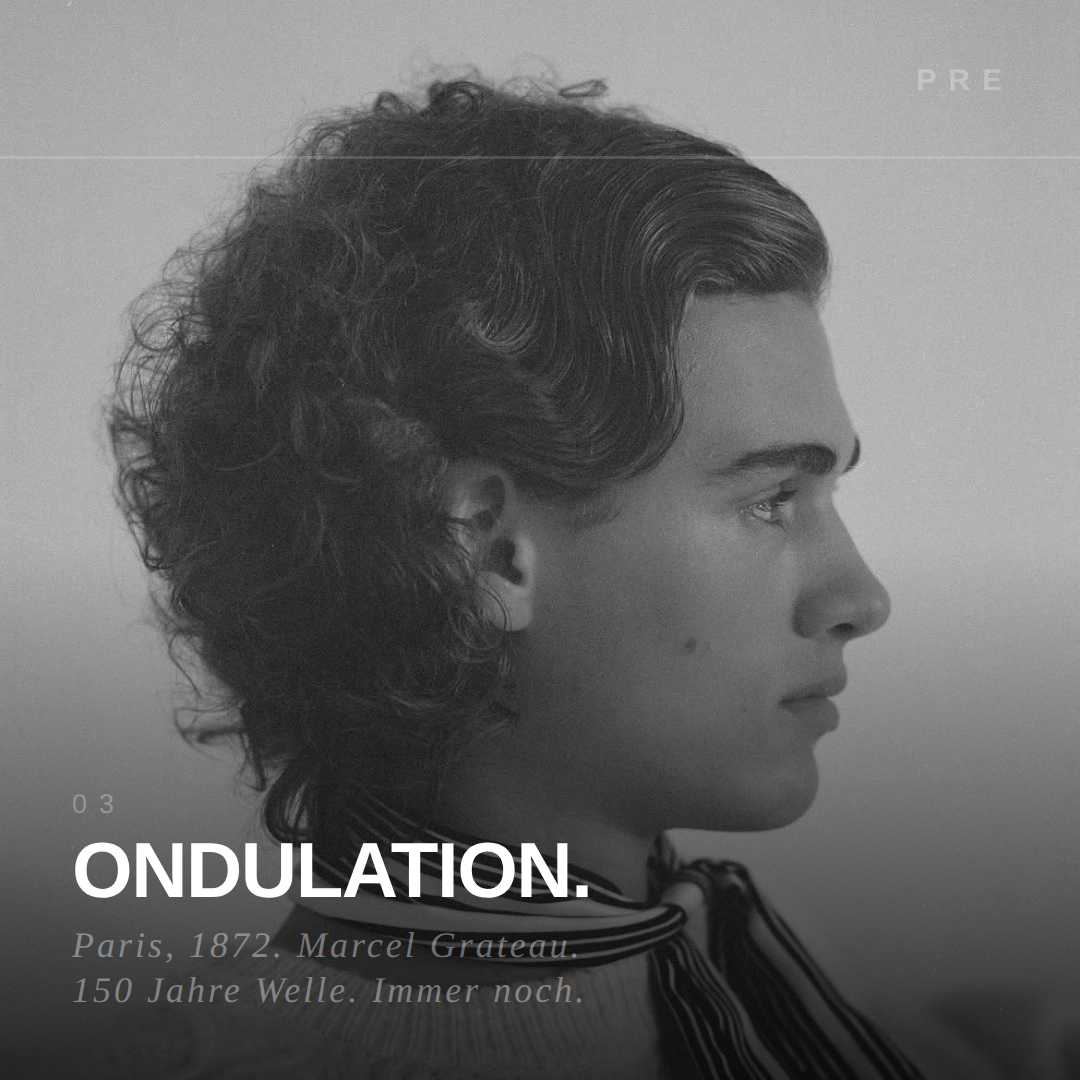
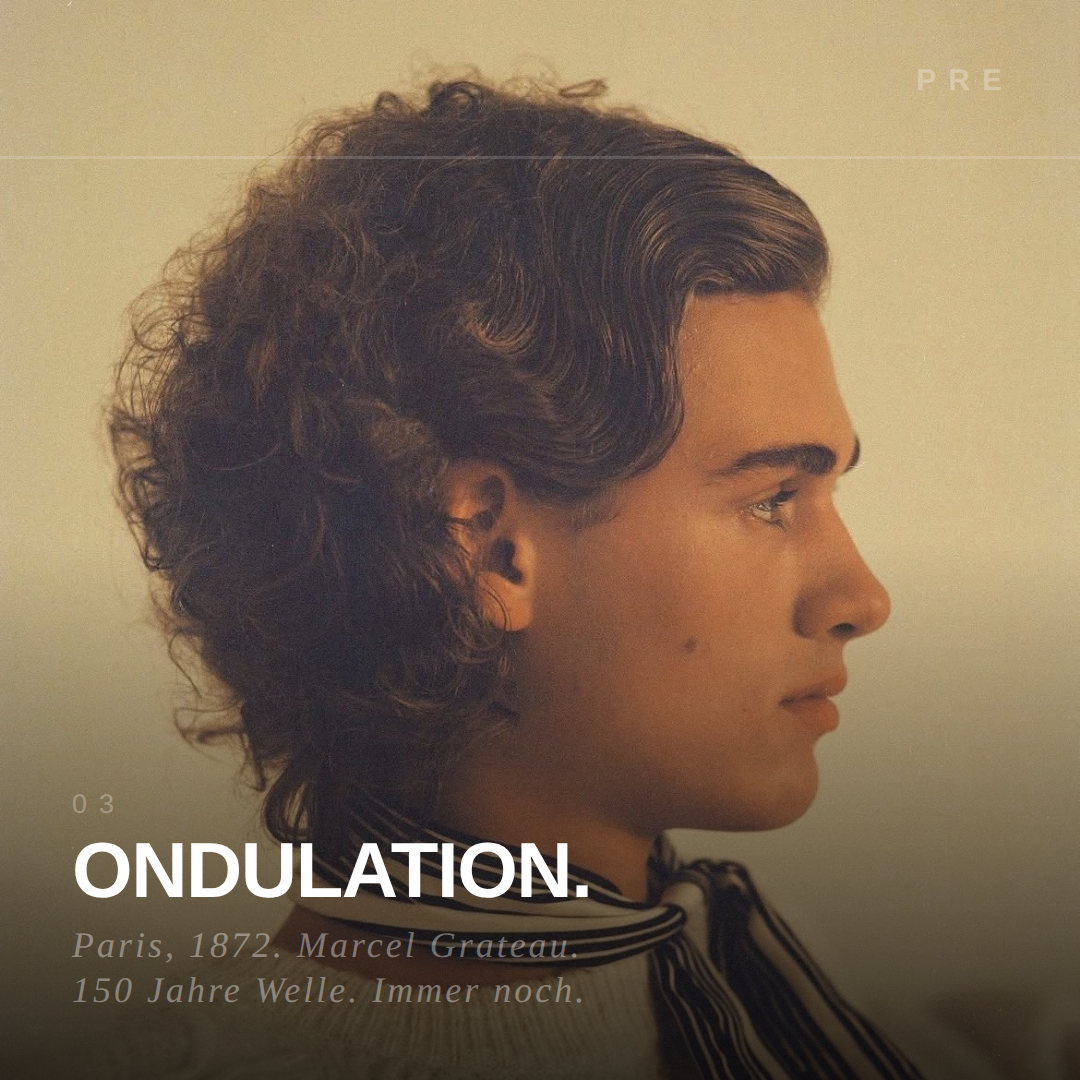
Add color moments to MORPHOLOGIE carousel
Slides 4+5 (Ondulation + Undercut) now in color.
Rhythm: B&W → B&W → warm vintage gold → contemporary olive → B&W → text.

https://claude.ai/code/session_01BaC8m9wAmbtKccXQSCmnYc

diff --git a/carousel-morphologie.html b/carousel-morphologie.html
@@ -99,11 +99,21 @@
     .s3 { background: #080808; }
     .s3 .photo { background-image: url('feed-shag-mullet.jpg'); background-position: center 10%; }
 
-    .s4 { background: #080808; }
-    .s4 .photo { background-image: url('feed-vintage-curls.jpg'); background-position: 55% 18%; }
+    /* S4 Ondulation — IN FARBE: warm vintage, Paris 1872 */
+    .s4 { background: #1a140a; }
+    .s4 .photo {
+      background-image: url('feed-vintage-curls.jpg');
+      background-position: 55% 18%;
+      filter: contrast(1.08) brightness(0.92) saturate(1.1);
+    }
 
-    .s5 { background: #080808; }
-    .s5 .photo { background-image: url('carousel-undercut.jpg'); background-position: center 12%; }
+    /* S5 Undercut — IN FARBE: contemporary, golden */
+    .s5 { background: #0e0c08; }
+    .s5 .photo {
+      background-image: url('carousel-undercut.jpg');
+      background-position: center 12%;
+      filter: contrast(1.1) brightness(0.9) saturate(0.95);
+    }
 
     .s6 { background: #080808; }
     .s6 .photo { background-image: url('feed-nape.jpg'); background-position: 35% center; }
